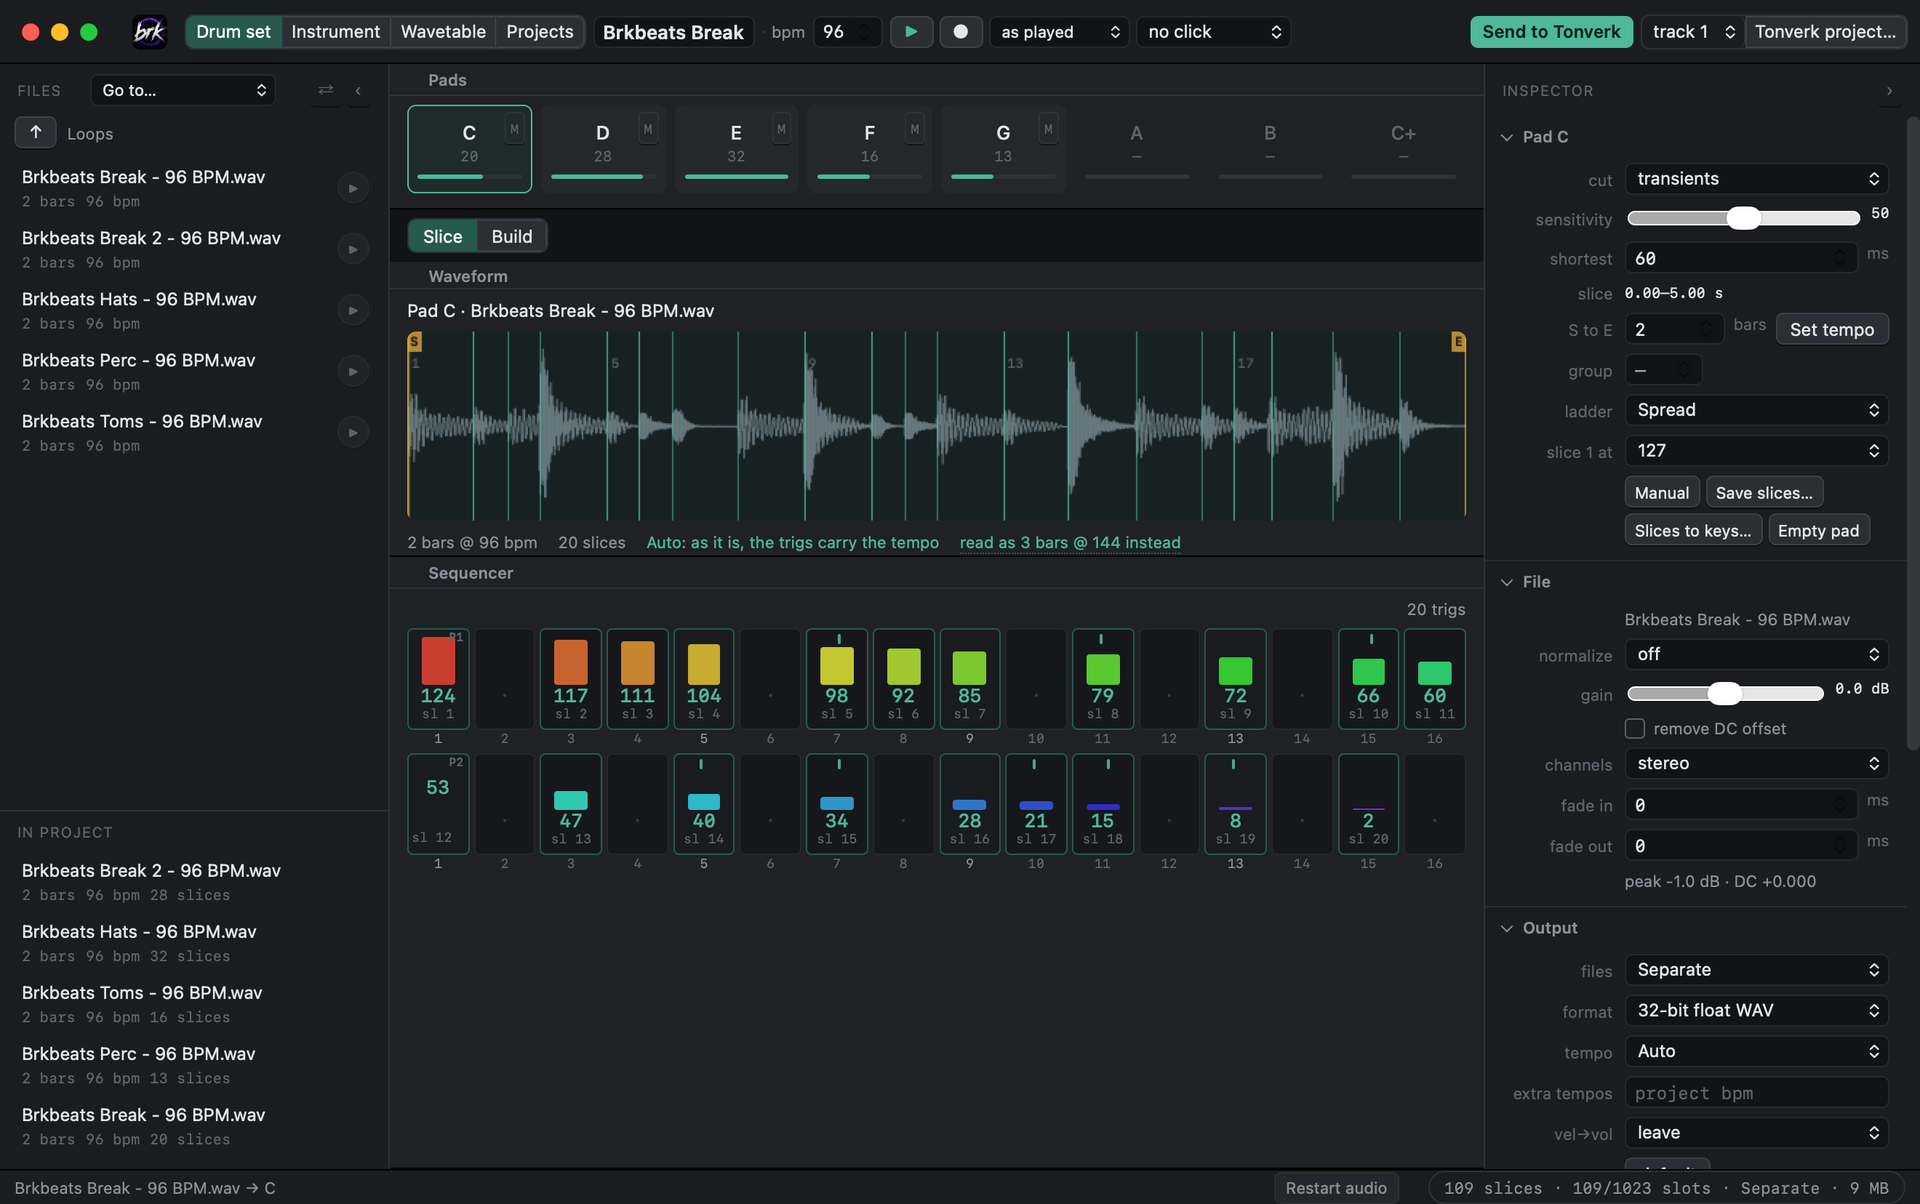
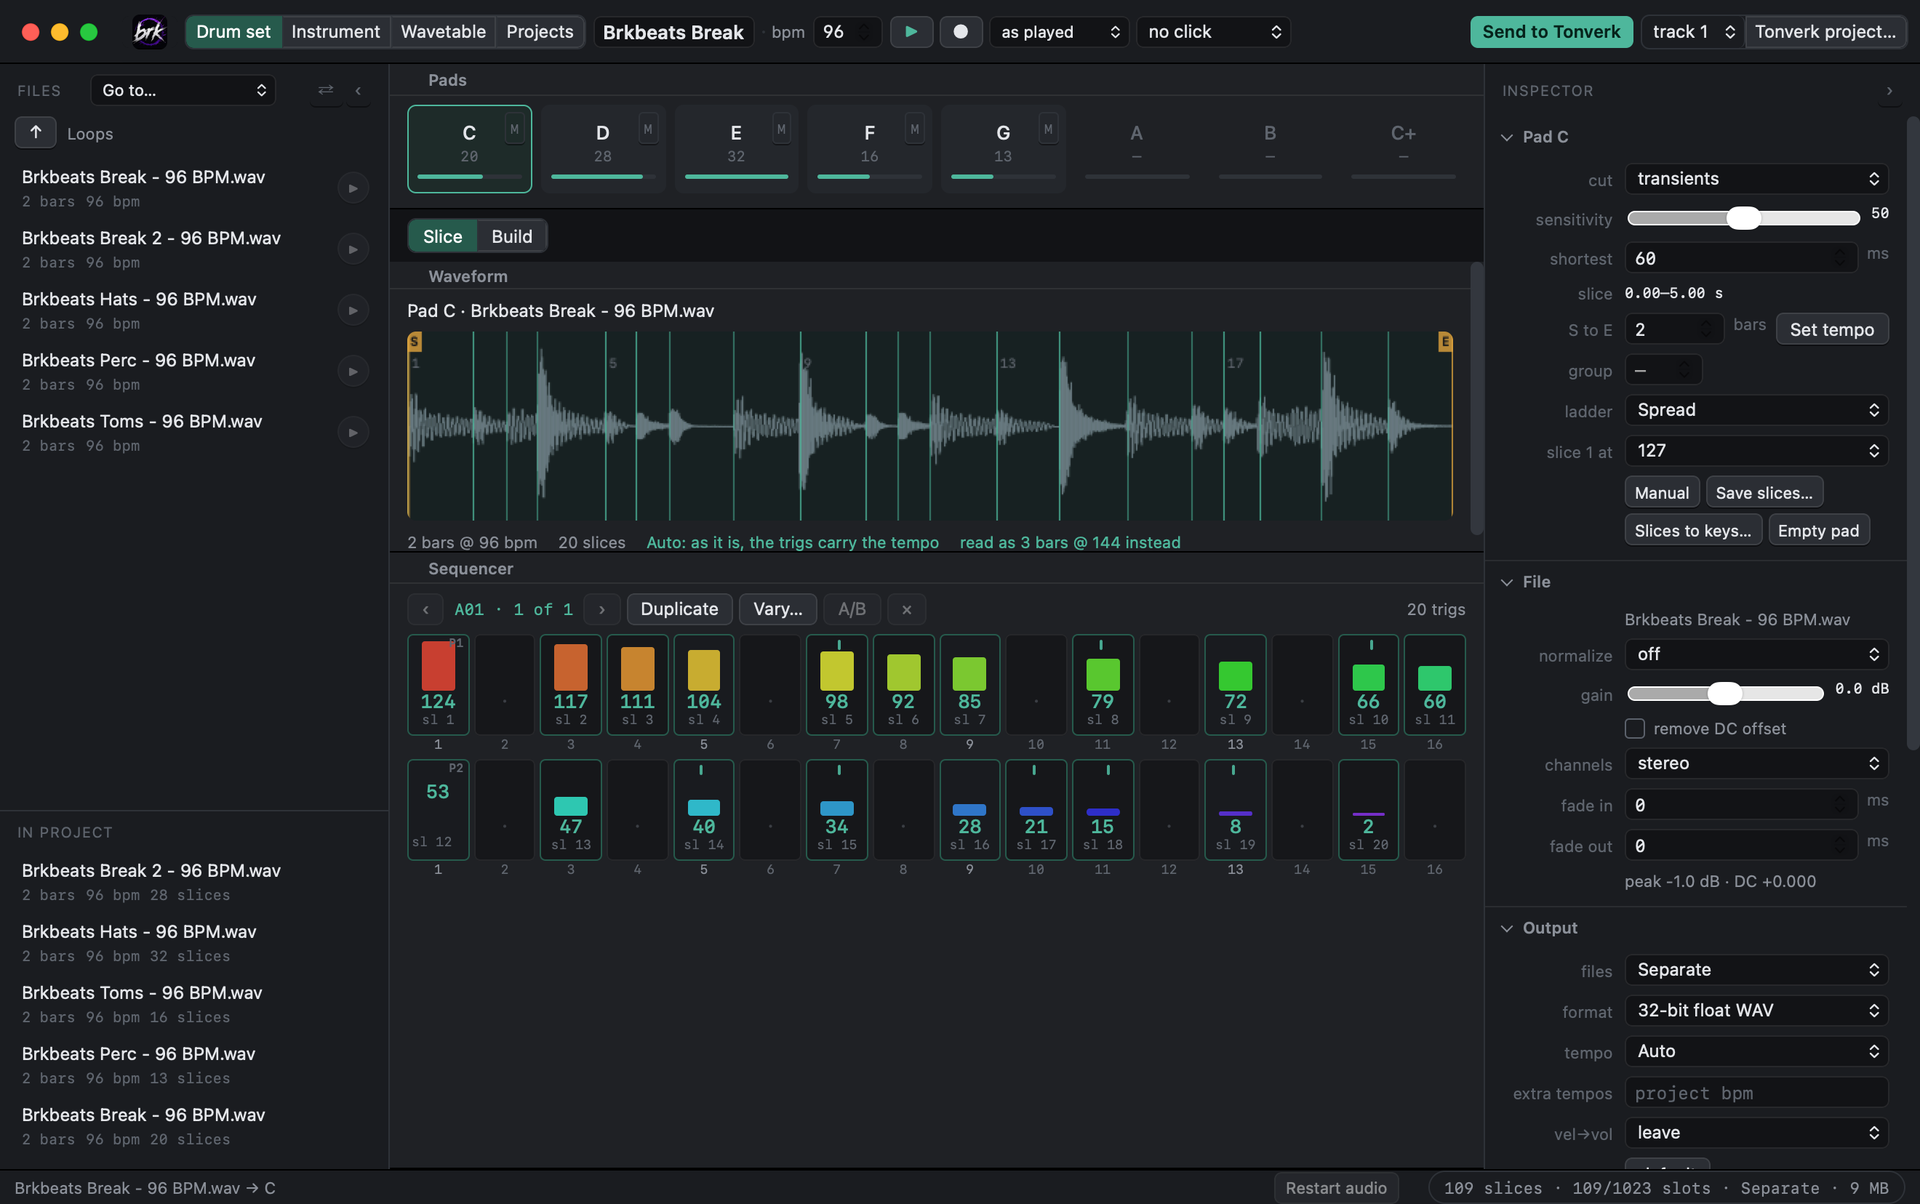
Overlook page: 0.9.1, new in it, Projects screen
A New in 0.9.1 section (Vary, PROB, Duplicate and A/B, pattern preview and
copy, Set, starting the Tonverk) with a shot of the Projects screen. The hero
adds copying patterns between projects; Tracks, Send and Safety get PROB, the
send log, the card's copy and documents keeping their sounds. New drum set
shot from 0.9.1.

diff --git a/overlook.html b/overlook.html
@@ -4,7 +4,7 @@
 <meta charset="UTF-8" />
 <meta name="viewport" content="width=device-width, initial-scale=1.0" />
 <title>Overlook for Tonverk – Mac &amp; Windows App – Brkbeats</title>
-<meta name="description" content="Overlook is a Mac and Windows app for the Elektron Tonverk: build drum sets, instruments, and wavetables, sequence them, and send them straight to the card. Any Mac from 2015 on (macOS 11 or later) and Windows 10 or 11." />
+<meta name="description" content="Overlook is a Mac and Windows app for the Elektron Tonverk: build drum sets, instruments, and wavetables, sequence them, send them straight to the card, and copy patterns between projects. Any Mac from 2015 on (macOS 11 or later) and Windows 10 or 11." />
 <link rel="preconnect" href="https://fonts.googleapis.com" />
 <link rel="preconnect" href="https://fonts.gstatic.com" crossorigin />
 <link href="https://fonts.googleapis.com/css2?family=Space+Grotesk:wght@400;500;600;700&family=Inter:wght@400;500&family=Space+Mono&display=swap" rel="stylesheet" />
@@ -52,7 +52,7 @@
 <p class="hero-eyebrow">Overlook for Tonverk · Mac &amp; Windows</p>
 <h1>Curate your <span>card.</span></h1>
 <p class="hero-sub">
-Build kits, instruments, and wavetables, sequence them, and send them straight to the card.
+Build kits, instruments, and wavetables, sequence them, and send them straight to the card. Copy patterns between projects.
 </p>
 <div class="hero-actions">
 <a class="btn-primary" href="#buy">Buy Now</a>
@@ -70,8 +70,9 @@ Build kits, instruments, and wavetables, sequence them, and send them straight t
 
 <div class="divider"></div>
 
-<!-- Screenshots: the 2026-10-22 build, 1320-point window at 2x, shown at 1920 wide. The kit is loops
-     built from Steve's BrkbeatsKit hits; the instrument is Ottava_MultiOne. -->
+<!-- Screenshots: packaging/site_shots.py in the tonverk repo, 1320-point window at 2x, shown at 1920 wide.
+     Drum set, wavetable and projects from 0.9.1 (2026-10-25); the instrument from 0.9 (2026-10-22). The kit
+     is loops built from Steve's BrkbeatsKit hits; the instrument is Ottava_MultiOne. -->
 <div class="shot">
 <img src="assets/overlook-drumset.png" alt="Overlook's Drum set screen: a break sliced at its hits on pad C, five pads loaded, and the slices sequenced as trigs over two bars" />
 </div>
@@ -126,7 +127,7 @@ Build kits, instruments, and wavetables, sequence them, and send them straight t
 <div class="feature-card">
 <span class="feature-icon">🎼</span>
 <h3>Tracks</h3>
-<p>A step sequencer with velocity, length, micro timing, swing, retrigs, and trig conditions. Chords, arp, and glide as on the machine. MIDI files in and out, and record what you play on the Tonverk's keys or any keyboard.</p>
+<p>A step sequencer with velocity, length, micro timing, swing, retrigs, trig conditions, and PROB. Chords, arp, and glide as on the machine. Up to 128 patterns in a document. MIDI files in and out, and record what you play on the Tonverk's keys or any keyboard.</p>
 </div>
 <div class="feature-card">
 <span class="feature-icon">⏏</span>
@@ -135,6 +136,51 @@ Build kits, instruments, and wavetables, sequence them, and send them straight t
 </div>
 </div>
 </section>
+
+<div class="divider"></div>
+
+<!-- NEW IN 0.9.1 (2026-10-25). Each line checked on the Tonverk or on all four machines; see BUSINESS.md, "0.9.1". -->
+<section>
+<p class="section-label">New in 0.9.1</p>
+<h2 class="section-title">From one pattern<br>to a whole set.</h2>
+<p class="needs" style="margin: -8px 0 28px;">A free update for everyone who bought 0.9.</p>
+<div class="features-grid three">
+<div class="feature-card">
+<span class="feature-icon">🎲</span>
+<h3>Vary…</h3>
+<p>Turn one pattern into several. Trigs move to other pads on the same steps, slices change, a trig or two gets a PROB, and the rhythm and the downbeat stay. Each copy goes a little further than the last, and one undo takes them all back.</p>
+</div>
+<div class="feature-card">
+<span class="feature-icon">🎯</span>
+<h3>PROB</h3>
+<p>Give a trig a chance of playing, as on the TRIG page. The preview and the Set roll it, and the Tonverk gets it as its own PROB.</p>
+</div>
+<div class="feature-card">
+<span class="feature-icon">🅰</span>
+<h3>Duplicate and A/B</h3>
+<p>Duplicate a pattern to change it, A/B to hear the two against each other, and name them Verse and Chorus.</p>
+</div>
+<div class="feature-card">
+<span class="feature-icon">📂</span>
+<h3>Any Pattern, Any Project</h3>
+<p>Hear the drums and samples of any pattern on the card without loading it on the machine, then copy it into another project. Its kits, samples, chords, scales, trig conditions, and knobs come with it.</p>
+</div>
+<div class="feature-card">
+<span class="feature-icon">🗂</span>
+<h3>Set</h3>
+<p>Build patterns from your documents, one per track, and hear them together: every pattern in turn, or in your own song order. Send set puts them on the card as one new project. The song order stays in Overlook for now.</p>
+</div>
+<div class="feature-card">
+<span class="feature-icon">▶</span>
+<h3>Starts the Tonverk</h3>
+<p>Press play in Overlook and the Tonverk starts with it, over USB. Stop stops both.</p>
+</div>
+</div>
+</section>
+
+<div class="shot" style="margin-top: 0;">
+<img src="assets/overlook-projects.png" alt="Overlook's Projects screen: pattern A02 of one project playing, ready to copy into pattern A01 of another" />
+</div>
 
 <div class="divider"></div>
 
@@ -168,7 +214,7 @@ Build kits, instruments, and wavetables, sequence them, and send them straight t
 <div class="how-step">
 <p class="step-num">SEND</p>
 <h3>Straight to the card</h3>
-<p>Send a kit to the card, or make a new project with it on a track and the pattern already in it. One click, then <em>Safe to eject</em>.</p>
+<p>Send a kit to the card, or make a new project with it on a track and the pattern already in it. One click, then <em>Safe to eject</em>. Every kit sent remembers which document it came from, and opens it again.</p>
 </div>
 <div class="how-step">
 <p class="step-num">PLAY</p>
@@ -184,7 +230,7 @@ Build kits, instruments, and wavetables, sequence them, and send them straight t
 <section>
 <p class="section-label">Safety first</p>
 <h2 class="section-title">Your projects come first.</h2>
-<div class="features-grid">
+<div class="features-grid three">
 <div class="feature-card">
 <span class="feature-icon">💾</span>
 <h3>Backed Up First</h3>
@@ -204,6 +250,16 @@ Build kits, instruments, and wavetables, sequence them, and send them straight t
 <span class="feature-icon">⏏</span>
 <h3>Safe to Eject</h3>
 <p>Everything is flushed to the card, and the app tells you when it's actually safe to eject.</p>
+</div>
+<div class="feature-card">
+<span class="feature-icon">💻</span>
+<h3>A Copy on Your Computer</h3>
+<p>Each time the card is mounted, Overlook copies its projects to your computer, only reading the card. Look through them with the card back in the Tonverk.</p>
+</div>
+<div class="feature-card">
+<span class="feature-icon">🎧</span>
+<h3>Documents Keep Their Sounds</h3>
+<p>A saved document keeps a copy of the audio it uses beside it, so it still opens after the files you started from have moved.</p>
 </div>
 </div>
 </section>
